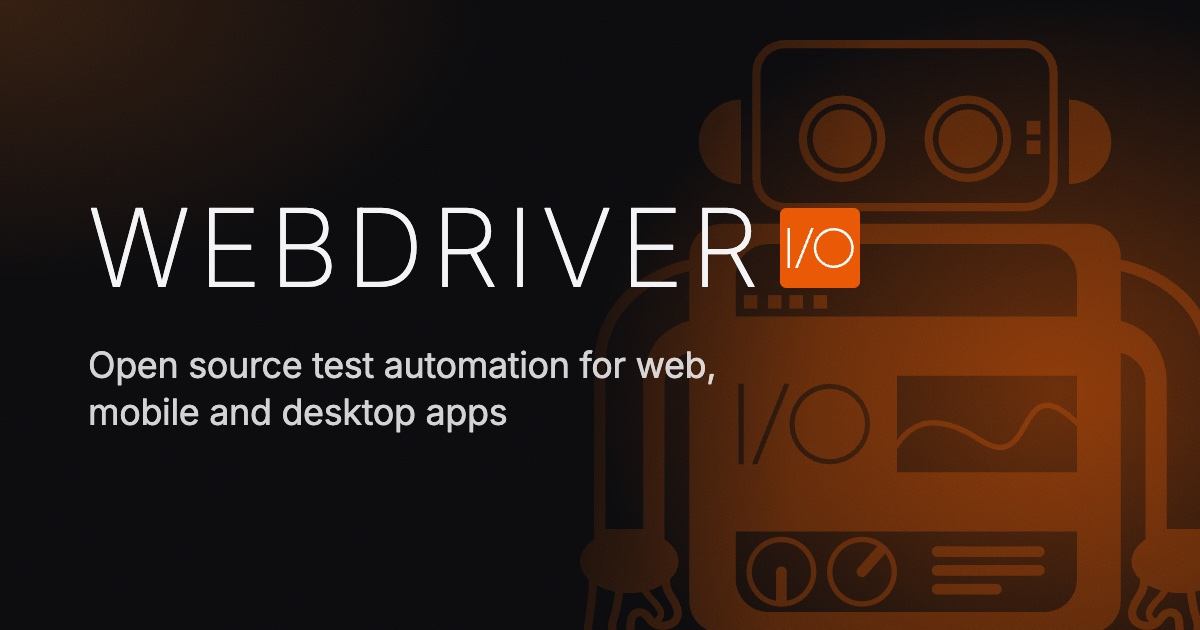
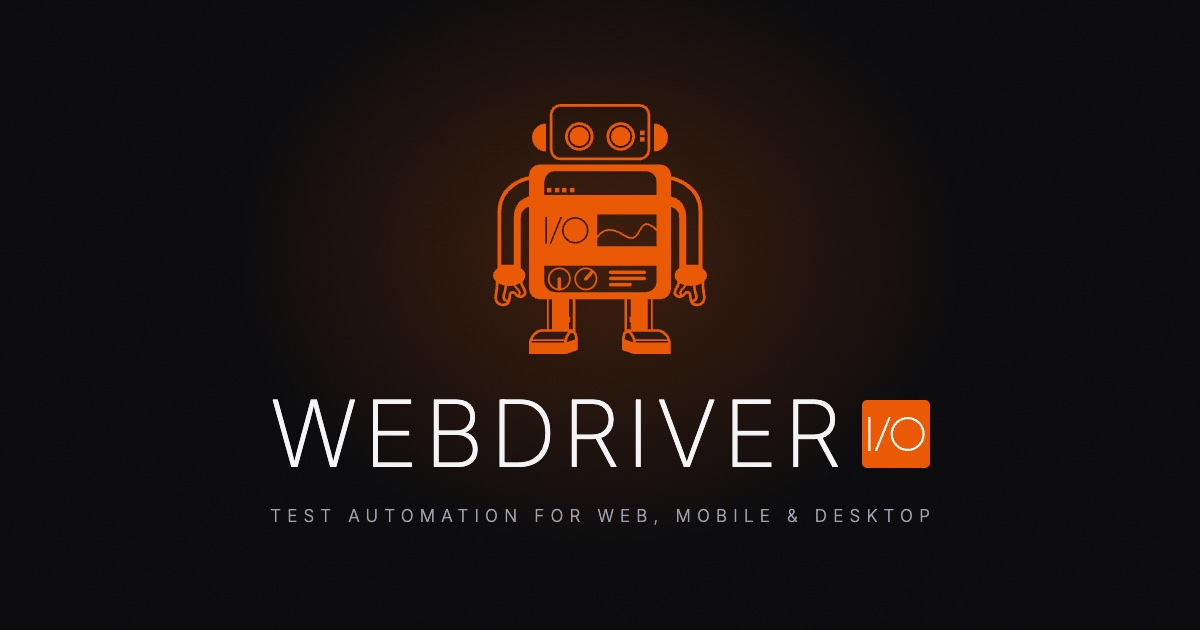
feat(website): center the robot and wordmark on the social card
Full-color robot above the WEBDRIVER wordmark and logo, with a thin
spaced tagline fitted to the wordmark width, following the centered
logo cards of most popular OSS frameworks.

diff --git a/website/scripts/social-card.html b/website/scripts/social-card.html
@@ -14,25 +14,40 @@
 *{margin:0;padding:0;box-sizing:border-box}
 html,body{width:1200px;height:630px;overflow:hidden;background:#0b0b0d}
 .card{position:relative;width:1200px;height:630px;overflow:hidden;font-family:Inter,sans-serif;color:#fff;
-  background:
-    radial-gradient(620px 520px at 88% 62%, rgba(234,89,6,.42), rgba(234,89,6,.12) 50%, transparent 75%),
-    radial-gradient(700px 400px at 0% 0%, rgba(255,120,30,.16), transparent 70%),
-    #0b0b0d}
-.robot{position:absolute;right:-30px;top:40px;height:760px;opacity:.28;
-  -webkit-mask-image:linear-gradient(100deg, transparent 0%, #000 38%, #000 100%)}
-.grain{position:absolute;inset:0;opacity:.3;mix-blend-mode:soft-light}
-.content{position:absolute;left:88px;top:0;bottom:0;display:flex;flex-direction:column;justify-content:center;gap:40px}
+  background:radial-gradient(520px 420px at 50% 40%, rgba(234,89,6,.22), transparent 70%), #0b0b0d}
+.grain{position:absolute;inset:0;opacity:.25;mix-blend-mode:soft-light}
+.content{position:absolute;inset:0;display:flex;flex-direction:column;align-items:center;justify-content:center}
+.robot{height:250px;margin-bottom:34px}
 .mark{display:flex;align-items:center;gap:14px}
-.word{font-size:108px;font-weight:200;letter-spacing:.07em;line-height:1;color:#f4f4f5}
-.logo{width:80px;height:80px}
-.tag{max-width:640px;font-size:36px;font-weight:400;line-height:1.3;letter-spacing:-.01em;color:rgba(255,255,255,.82)}
+.word{font-size:92px;font-weight:200;letter-spacing:.07em;line-height:1;color:#f4f4f5}
+.logo{width:68px;height:68px}
+/* letter-spacing is set by the script below so the tagline matches the wordmark width */
+.tag{margin-top:26px;font-size:17px;font-weight:300;white-space:nowrap;color:#a1a1aa}
 </style></head><body><div class="card">
-<img class="robot" src="../static/img/materials/robot.svg" alt="">
 <svg class="grain" width="1200" height="630"><filter id="n"><feTurbulence type="fractalNoise" baseFrequency=".75" numOctaves="3" stitchTiles="stitch"/><feColorMatrix type="saturate" values="0"/></filter><rect width="100%" height="100%" filter="url(#n)"/></svg>
 <div class="content">
+  <img class="robot" src="../static/img/materials/robot.svg" alt="">
   <div class="mark">
     <div class="word">WEBDRIVER</div>
     <img class="logo" src="../static/img/logo-webdriver-io.svg" alt="">
   </div>
-  <div class="tag">Open source test automation for web, mobile and desktop apps</div>
-</div></div></body></html>
+  <div class="tag">TEST AUTOMATION FOR WEB, MOBILE &amp; DESKTOP</div>
+</div></div>
+<script>
+document.fonts.ready.then(() => {
+    const mark = document.querySelector('.mark')
+    const tag = document.querySelector('.tag')
+    // CSS adds letter-spacing after the last character too; cancel it with a negative margin
+    const chars = tag.textContent.length
+    let spacing = 0
+    for (let i = 0; i < 20; i++) {
+        tag.style.letterSpacing = `${spacing}px`
+        tag.style.marginRight = `${-spacing}px`
+        const diff = mark.getBoundingClientRect().width - (tag.getBoundingClientRect().width - spacing)
+        if (Math.abs(diff) < 0.5) break
+        spacing += diff / (chars - 1)
+    }
+    document.title = `mark=${mark.getBoundingClientRect().width.toFixed(1)} tag=${(tag.getBoundingClientRect().width - spacing).toFixed(1)} spacing=${spacing.toFixed(2)}`
+})
+</script>
+</body></html>

diff --git a/website/docusaurus.config.ts b/website/docusaurus.config.ts
@@ -75,8 +75,8 @@ const config: Config = {
             { name: 'twitter:site', content: `@${projectName}` },
             { property: 'og:image:width', content: '1200' },
             { property: 'og:image:height', content: '630' },
-            { property: 'og:image:alt', content: 'WebdriverIO logo and robot: open source test automation for web, mobile and desktop apps' },
-            { name: 'twitter:image:alt', content: 'WebdriverIO logo and robot: open source test automation for web, mobile and desktop apps' },
+            { property: 'og:image:alt', content: 'The WebdriverIO robot above the WebdriverIO logo: test automation for web, mobile and desktop' },
+            { name: 'twitter:image:alt', content: 'The WebdriverIO robot above the WebdriverIO logo: test automation for web, mobile and desktop' },
         ],
         colorMode: {
             defaultMode: 'dark',
